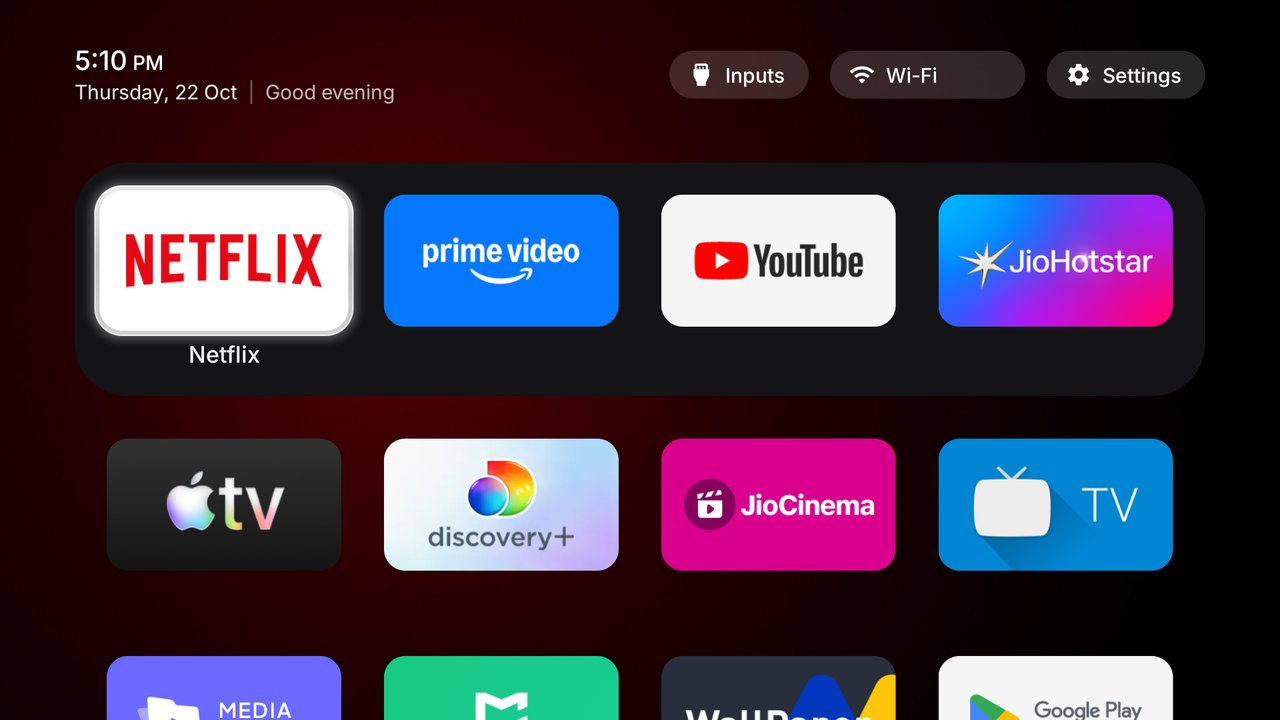
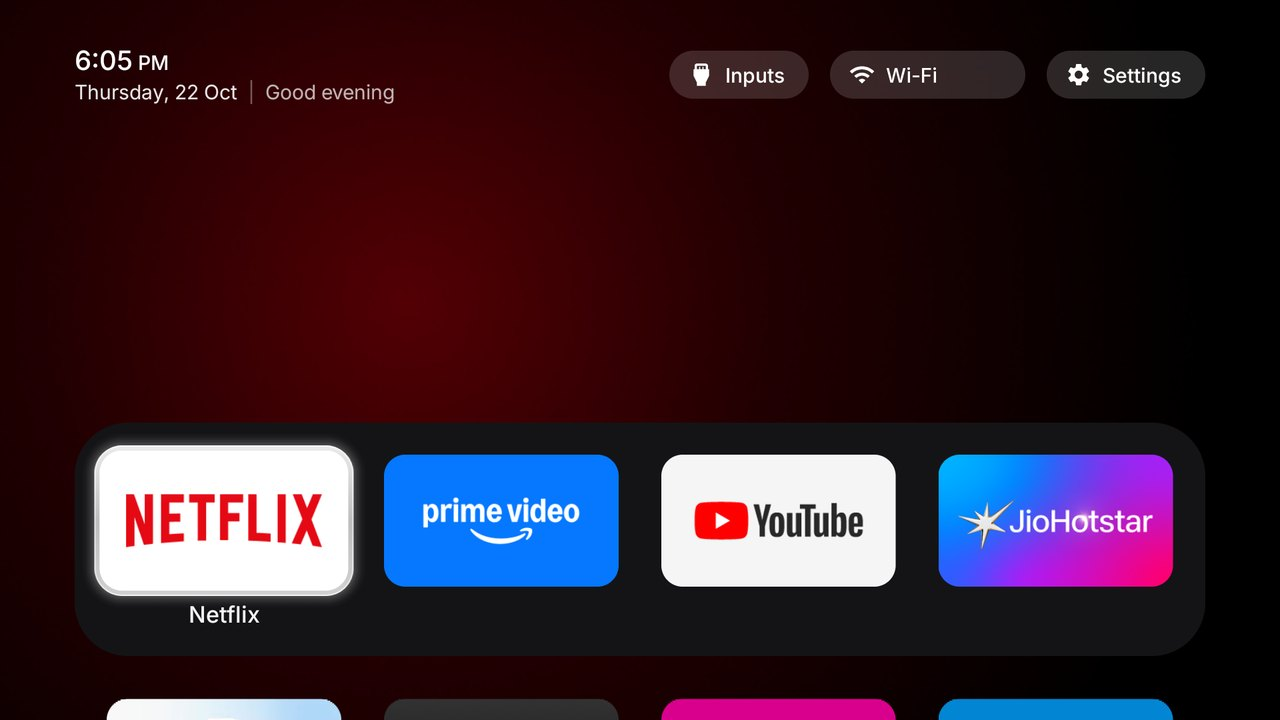
Launcher: rows_below_dock keeps its 0 default; screenshots retaken with this build
The rows default stays as in main (0 keeps the dock low; 1 or 2 lift it under the
top bar). The README's six launcher screenshots and the six theme screenshots are
retaken with this PR's build at 1280x720, Wi-Fi name painted over.

diff --git a/themes/README.md b/themes/README.md
@@ -46,7 +46,7 @@ is ignored, and a file that doesn't parse is ignored as a whole, so a theme can 
 | `input_uri_scheme` | string | Scheme an HDMI/AV row's passthrough URI is sent with instead of `content://`, with no MIME type (YaOS: `live-tv`, which its source player answers) |
 | `input_sources` | list, `config.xml` only | Vendor source numbers for the Inputs menu, `HW<n>=<number>` by the input id's last part; a mapped input opens by sending `input_action` with the number as the int extra `input`, and `HW<n>=-` leaves a port the set doesn't have out of the menu. Xiaomi/Redmi China firmware: [redmi-mitv-mftp0](../examples/redmi-mitv-mftp0/). Not read from a theme |
 | `columns` | 1 to 8 | Tiles per row; tiles shrink to fit from 5 up |
-| `rows_below_dock` | 0 to 3 | Grid rows left visible under the dock (1 by default); tiles shrink if the dock, its title and that many rows would not fit the screen height |
+| `rows_below_dock` | 0 to 3 | Grid rows left visible under the dock; tiles shrink if the dock, its title and that many rows would not fit the screen height |
 | `dock_title` | bool | The focused dock app's name in large type above the dock (`true`); `false`, the default, keeps only the glow |
 | `dock_row` | bool | The dock as its own row with a band (`true`); `false` makes the dock apps the first tiles of one plain grid |
 | `reorder_button` | bool | A reorder button in the top bar (`false` by default); reordering is always in the Settings button's long-press menu |
